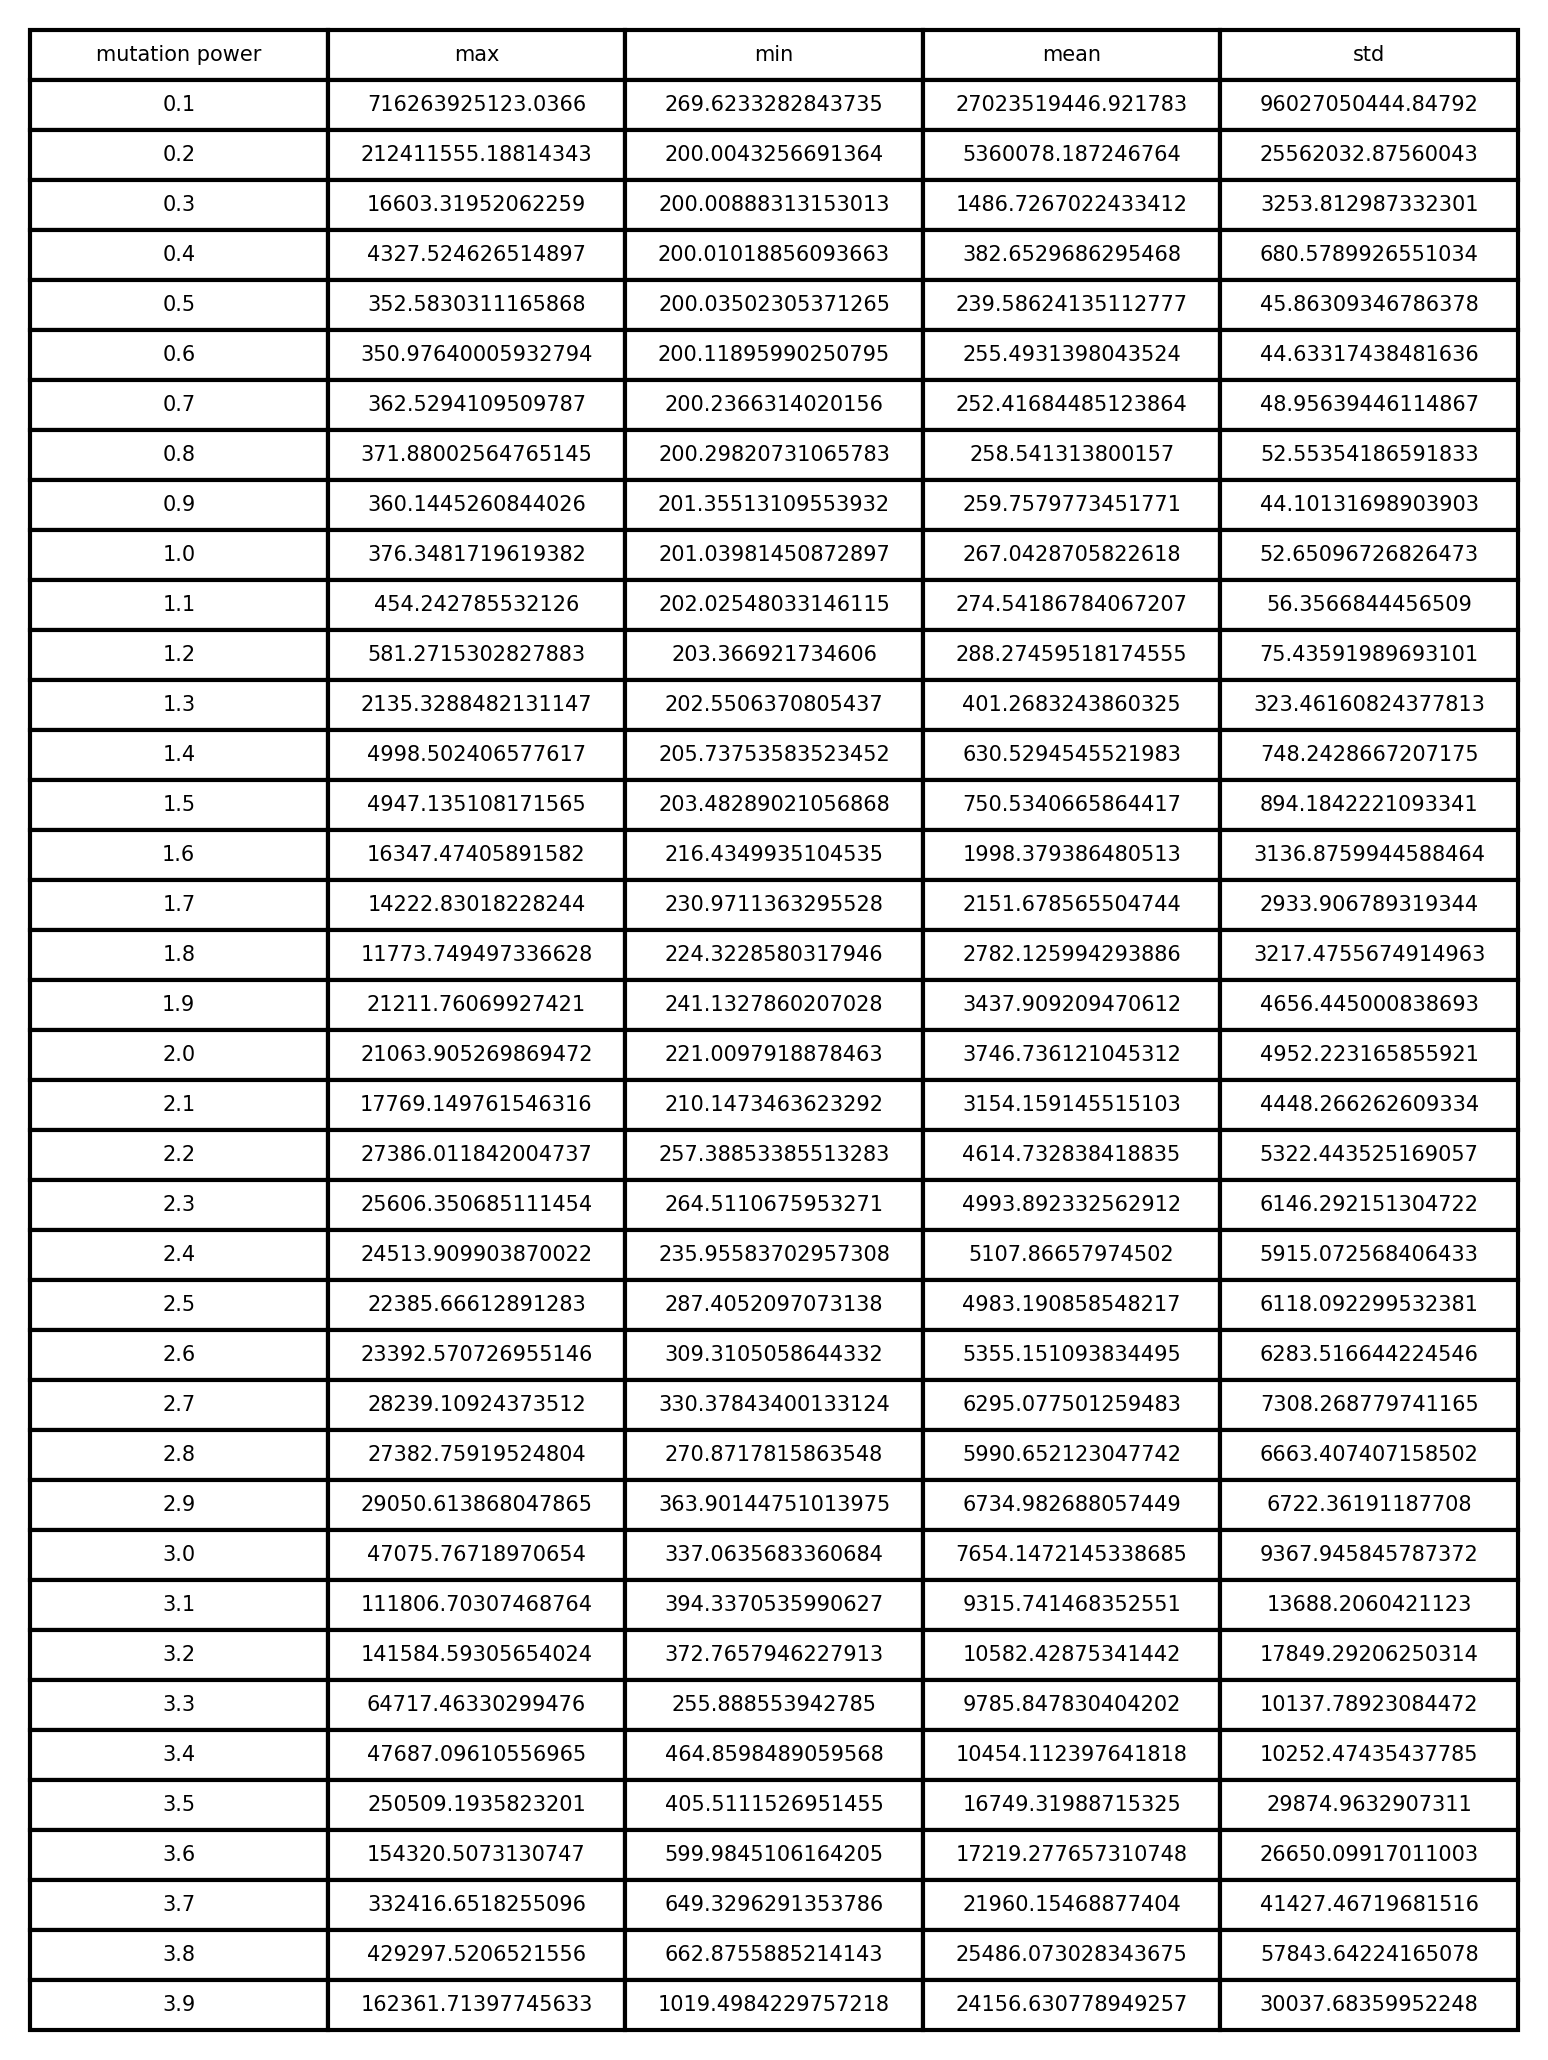
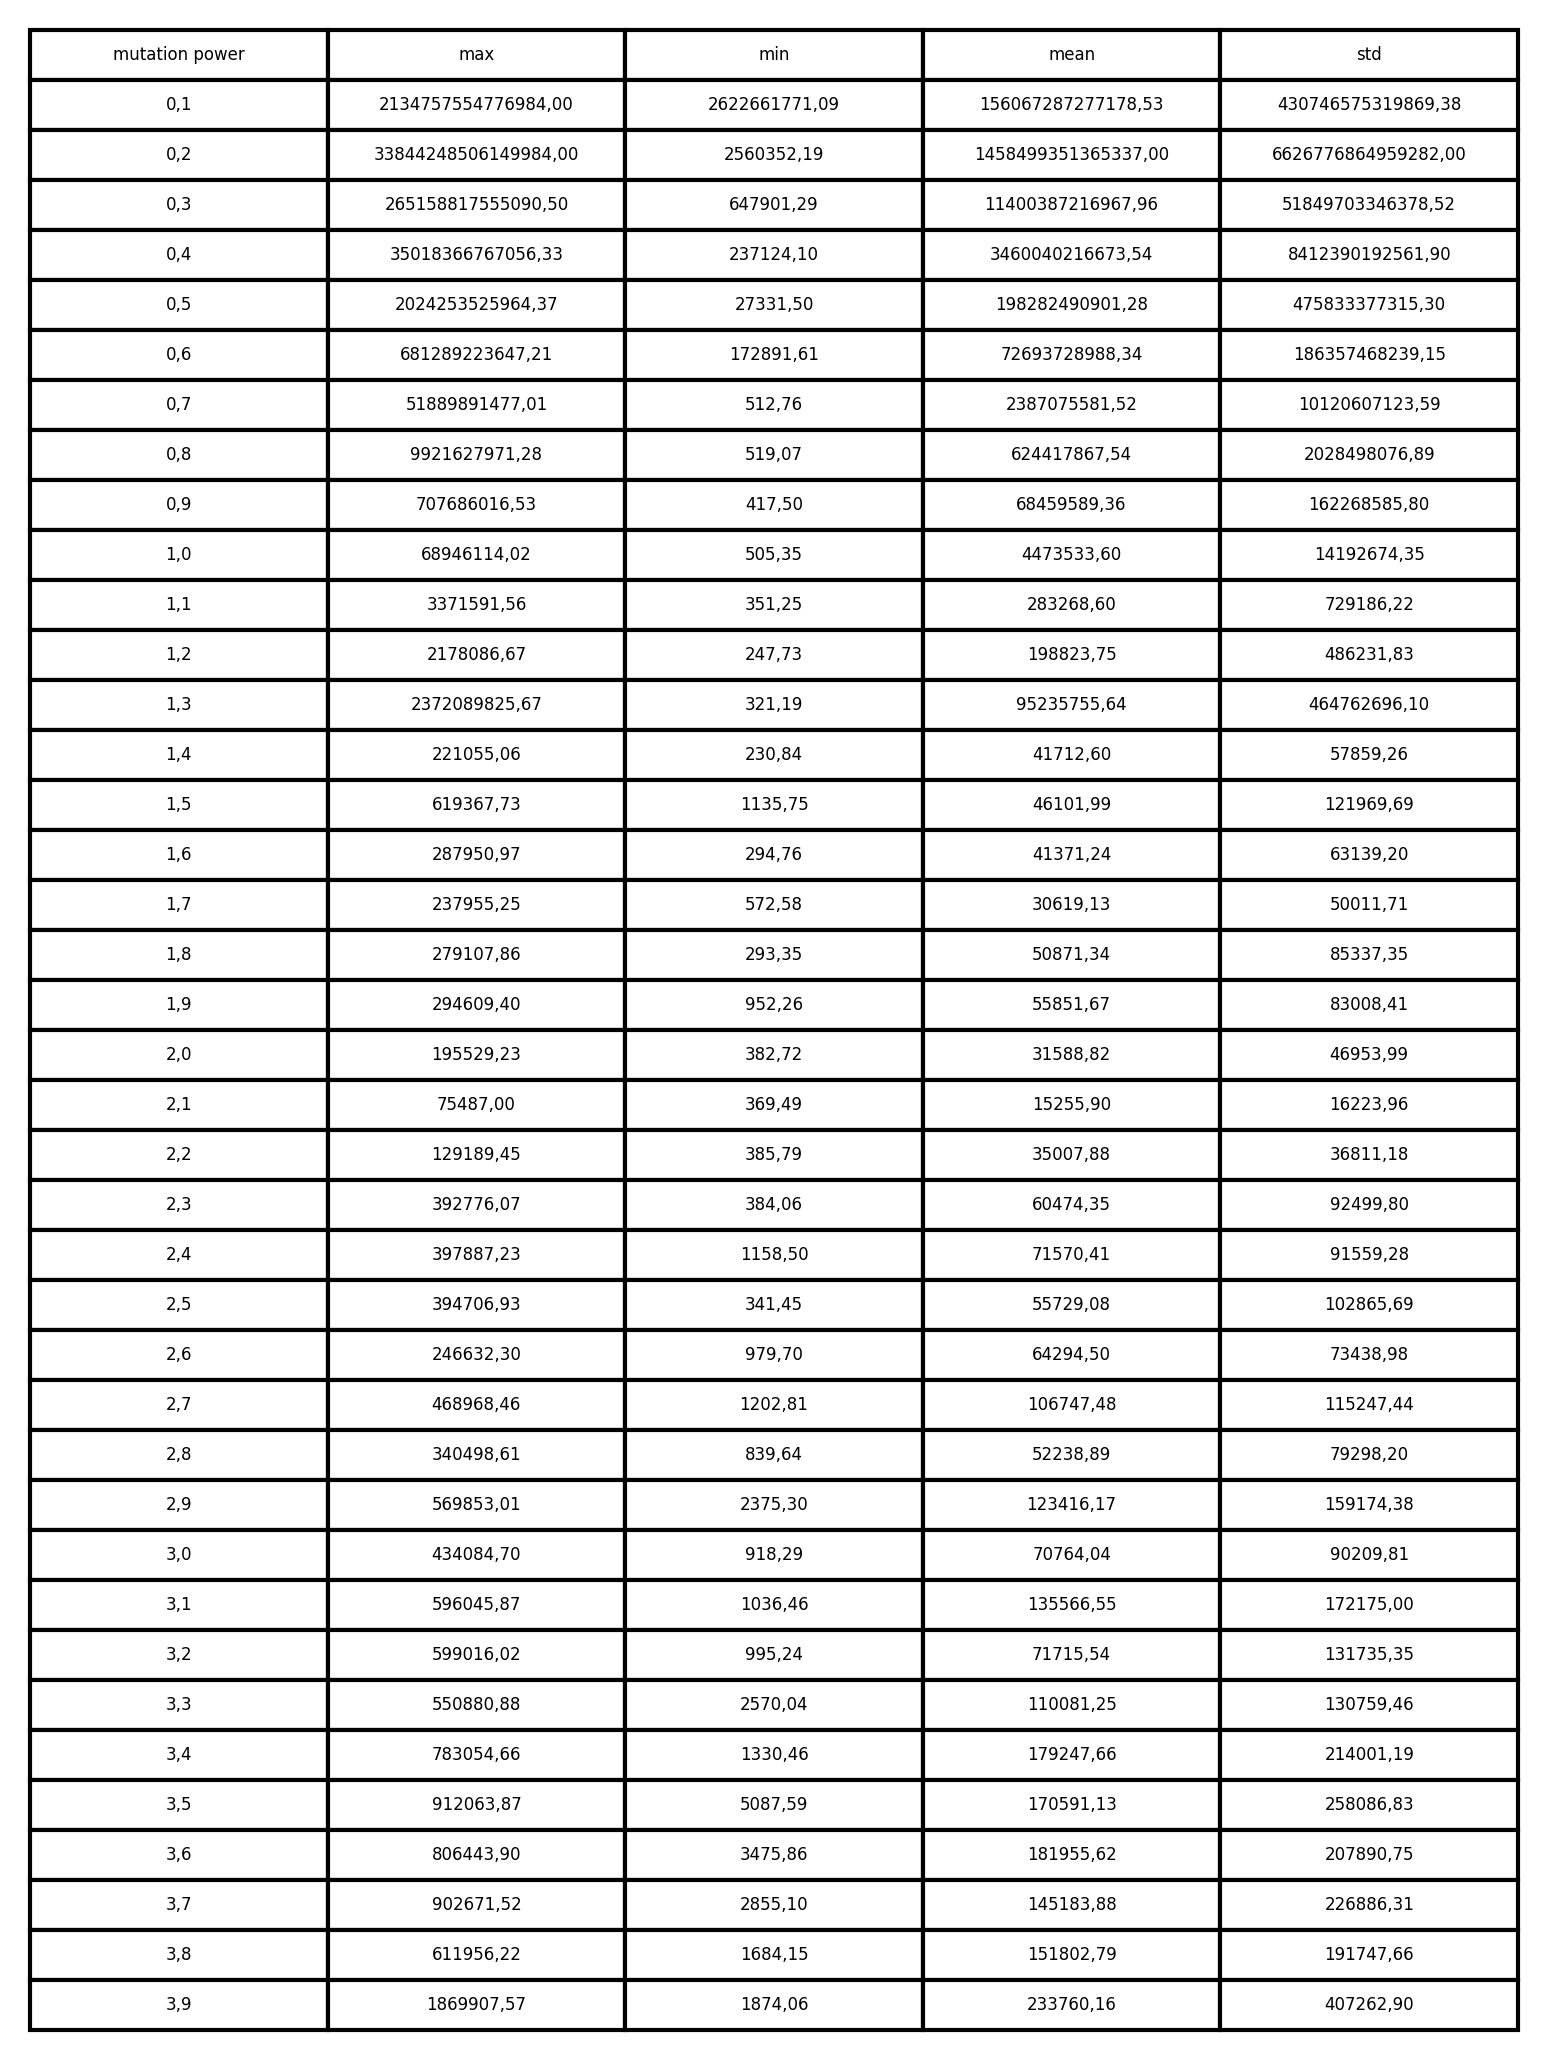
Improved generating tables

diff --git a/zadanie2/main.py b/zadanie2/main.py
@@ -5,7 +5,8 @@ from typing import List
 import numpy as np
 import matplotlib.pyplot as plt
 
-FES = 50000
+
+FES = 10000
 FUNCTION = f13
 POPULATION_SIZE = 20
 MUTATION_POWER = 1
@@ -50,20 +51,28 @@ def generate_data():
         data_2["mean"].append(np.mean(values))
         data_2["std"].append(np.std(values))
     df_1 = pd.DataFrame(data_1)
+    df_1["population size"] = df_1["population size"].astype(int)
     name_1 = f"population_{FUNCTION.__name__}.csv"
     df_1.to_csv(name_1, index=False)
     df_2 = pd.DataFrame(data_2)
+    df_2["mutation power"] = df_2["mutation power"].map(
+        lambda x: f"{x:.1f}".replace(".", ",")
+    )
     name_2 = f"mutation_power_{FUNCTION.__name__}.csv"
     df_2.to_csv(name_2, index=False)
 
 
 def format_dataframe(df: pd.DataFrame, decimal_places: int = 2) -> pd.DataFrame:
-    return df.map(lambda x: f"{x:.{decimal_places}f}".replace(".", ","))
+    df["max"] = df["max"].map(lambda x: f"{x:.{decimal_places}f}".replace(".", ","))
+    df["min"] = df["min"].map(lambda x: f"{x:.{decimal_places}f}".replace(".", ","))
+    df["mean"] = df["mean"].map(lambda x: f"{x:.{decimal_places}f}".replace(".", ","))
+    df["std"] = df["std"].map(lambda x: f"{x:.{decimal_places}f}".replace(".", ","))
+    return df
 
 
 def create_table(filename: str, dataframe: pd.DataFrame) -> None:
-    format_dataframe(dataframe)
-    fig, ax = plt.subplots()
+    dataframe = format_dataframe(dataframe)
+    _, ax = plt.subplots()
     ax.axis("off")
     ax.axis("tight")
     ax.table(
